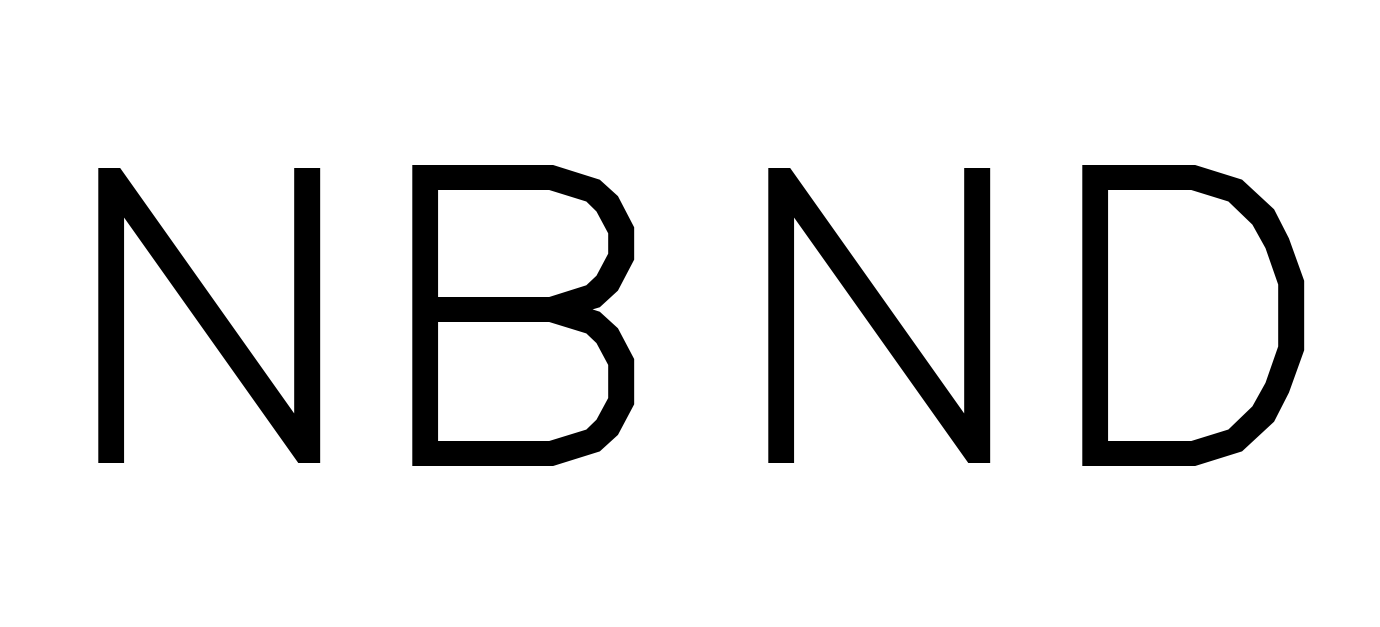
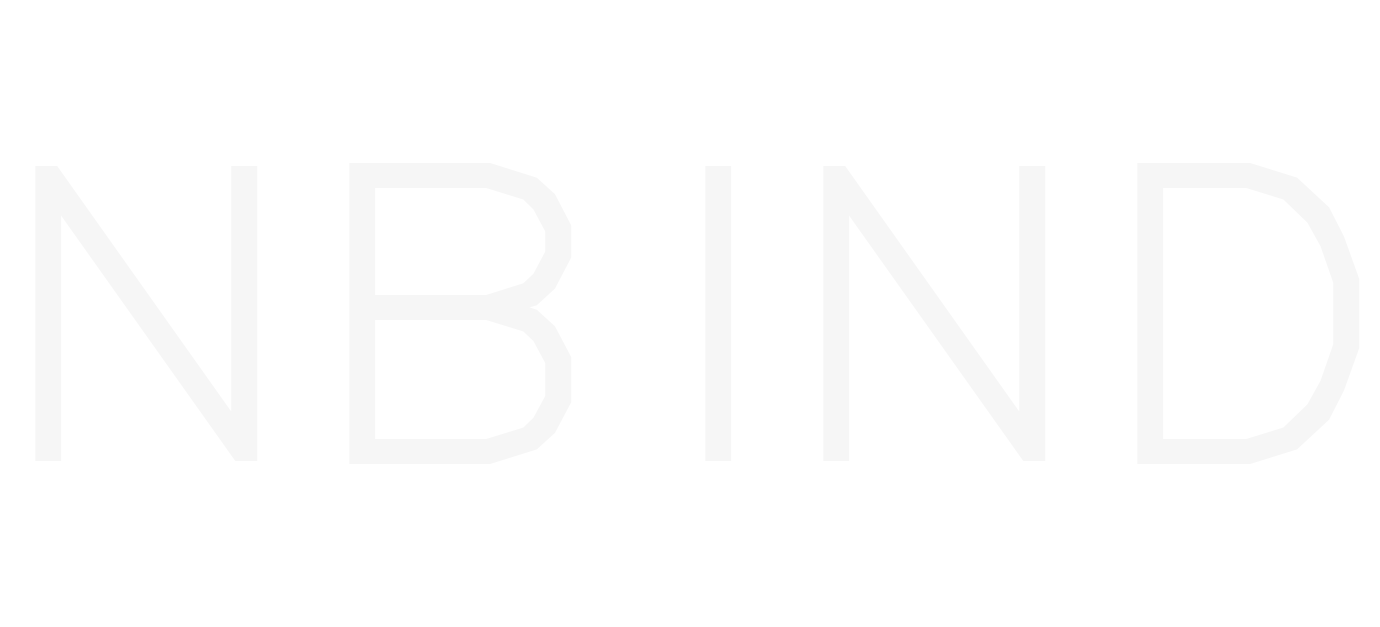
Update

diff --git a/hangzhou.html b/hangzhou.html
@@ -23,11 +23,12 @@
 </head>
 <body onload="updateClocks()">
   <div class='navcentre'>
+    <a href='willemstad.html' class='link'>Willemstad</a>
+    <a href='rio.html' class='link'>Rio</a>
     <a href='index.html' class='link'>Edinburgh</a>
     <a href='hangzhou.html' class='link'>Hangzhou</a>
-    <a href='willemstad.html' class='link'>Willemstad</a>
     <a href='seoul.html' class='link'>Seoul</a>
-    <!--<a href='qian.html' class='link'>倩</a>-->
+    <a href='tokyo.html' class='link'>Tokyo</a>
   </div>
   <div class="container">
     <div class="center">
@@ -39,6 +40,6 @@
 
 </body>
 
-<!--<footer><img src="NBNDWider.png" alt="Not Bad Industrial Logo" class="logo"></footer>-->
+<footer><img src="NBNDWider.png" alt="Not Bad Industrial Logo" class="logo"></footer>
 
 </html>

diff --git a/seoul.html b/seoul.html
@@ -23,10 +23,12 @@
 </head>
 <body onload="updateClocks()">
   <div class='navcentre'>
+    <a href='willemstad.html' class='link'>Willemstad</a>
+    <a href='rio.html' class='link'>Rio</a>
     <a href='index.html' class='link'>Edinburgh</a>
     <a href='hangzhou.html' class='link'>Hangzhou</a>
-    <a href='willemstad.html' class='link'>Willemstad</a>
     <a href='seoul.html' class='link'>Seoul</a>
+    <a href='tokyo.html' class='link'>Tokyo</a>
   </div>
   <div class="container">
     <div class="center">
@@ -37,6 +39,6 @@
 
 </body>
 
-<!--<footer><img src="NBNDWider.png" alt="Not Bad Industrial Logo" class="logo"></footer>-->
+<footer><img src="NBNDWider.png" alt="Not Bad Industrial Logo" class="logo"></footer>
 
 </html>

diff --git a/index.html b/index.html
@@ -23,10 +23,12 @@
 </head>
 <body onload="updateClocks()" class='edinburgh'>
   <div class='navcentre'>
+    <a href='willemstad.html' class='link'>Willemstad</a>
+    <a href='rio.html' class='link'>Rio</a>
     <a href='index.html' class='link'>Edinburgh</a>
     <a href='hangzhou.html' class='link'>Hangzhou</a>
-    <a href='willemstad.html' class='link'>Willemstad</a>
     <a href='seoul.html' class='link'>Seoul</a>
+    <a href='tokyo.html' class='link'>Tokyo</a>
   </div>
   <div class="container">
     <div class="center">

diff --git a/style.css b/style.css
@@ -12,8 +12,8 @@ body{
   background-position: center;
   height: 100%;
   /*background-color: rgb(250,250,250);*/
-  color: rgb(211,233,239);
-  /*color: rgb(180,180,180);*/
+  /*color: rgb(211,233,239);*/
+  color: rgb(110,110,110);
   margin: 10px;
   width: auto;
   height: auto;
@@ -44,8 +44,8 @@ a{
 
 .link{
   text-decoration: none;
-  /*color: rgb(70,70,70);*/
-  color: #B3C7CC;
+  color: rgb(110,110,110);
+  /*color: #B3C7CC;*/
   padding-left: 40px;
   font-size: 18px;
 }

diff --git a/rio.html b/rio.html
@@ -32,11 +32,10 @@
   </div>
   <div class="container">
     <div class="center">
-      <span class="clock" data-timezone="America/Curacao"></span>
-      <p class='local'>WILLEMSTAD</p>
+      <span class="clock" data-timezone="America/Sao_Paulo"></span>
+      <p class='local'>RIO DE JANERIO</p>
     </div>
   </div>
-
 
 </body>
 

diff --git a/tokyo.html b/tokyo.html
@@ -32,11 +32,10 @@
   </div>
   <div class="container">
     <div class="center">
-      <span class="clock" data-timezone="America/Curacao"></span>
-      <p class='local'>WILLEMSTAD</p>
+      <span class="clock" data-timezone="Asia/Tokyo"></span>
+      <p class='local'>TOKYO 東京</p>
     </div>
   </div>
-
 
 </body>
 
